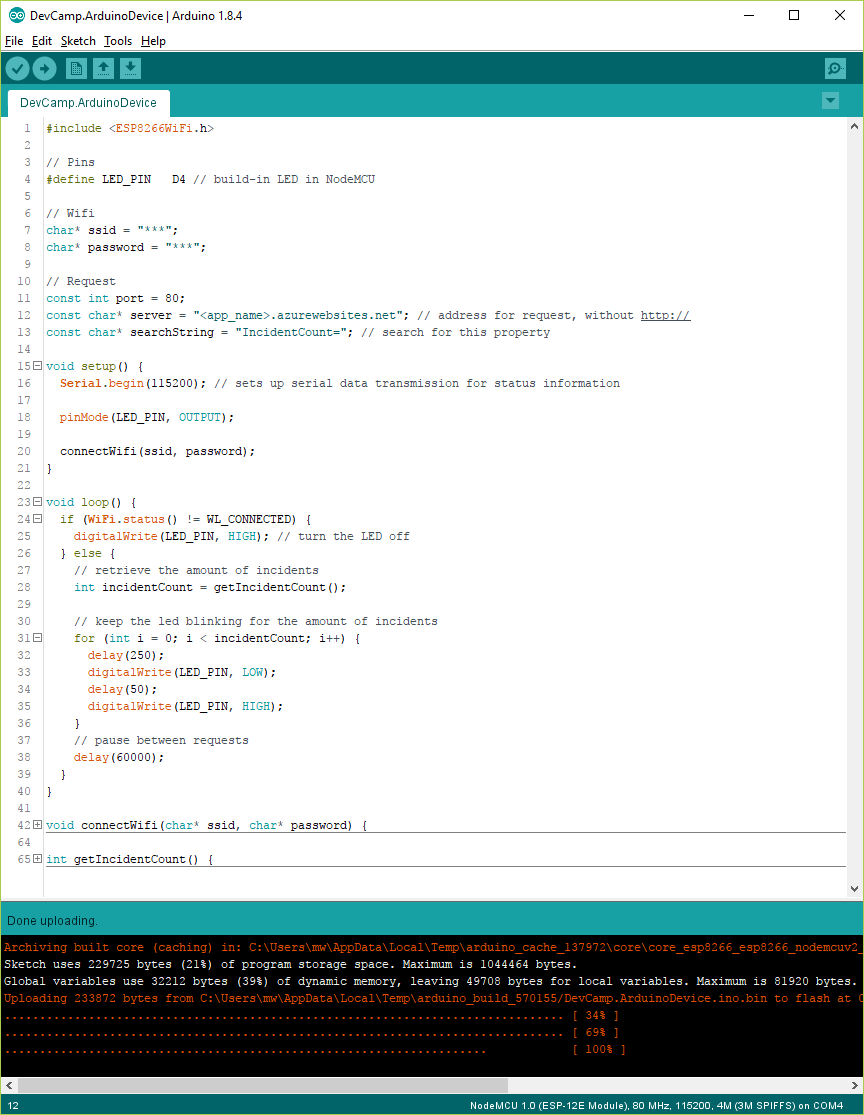
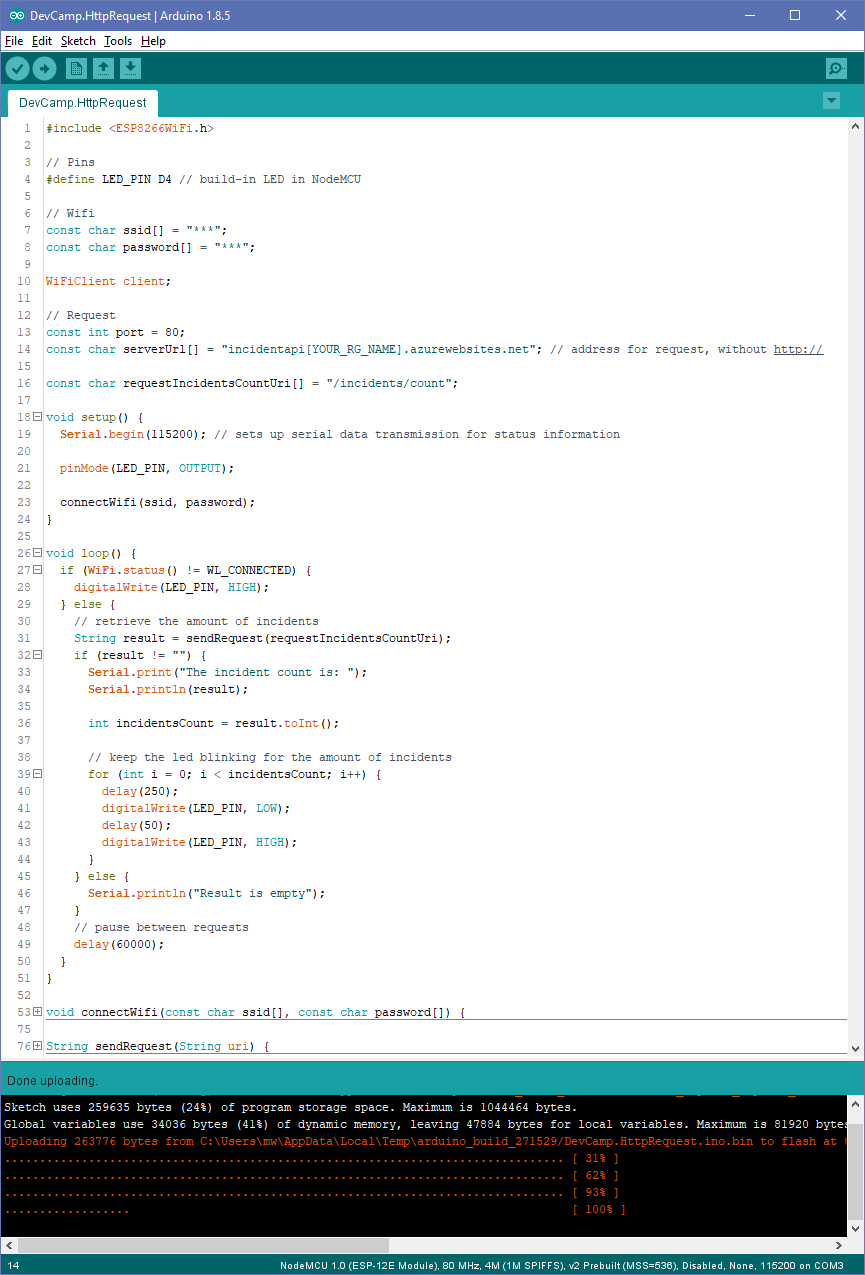
Replaced some pictures and corrected formatting

Changed region(s): [[0.0, 0.0, 1.0, 1.0], [0.9062, 0.2744, 0.9375, 0.3049]]

diff --git a/HOL/dotnet/11-IoT/README.md b/HOL/dotnet/11-IoT/README.md
@@ -89,7 +89,7 @@ You have now installed all the necessary components to start programming an Ardu
 ---
 ## Exercise 2: Program the device<a name="ex2"></a>
 
-The Arduino-compatible device can handle data exchange with web applications. At first we will connect the device to a Wi-Fi, and then we will add an HTTP request to retrieve the amount of incidents from the web application.
+The Arduino-compatible device can handle data exchange with web applications. At first we will connect the device to a Wi-Fi, and then we will add an HTTP request using the incident REST API to retrieve the amount of incidents from the incident web application.
 
 > It is important to develop projects in small chunks and to understand and test each function. Try to develop code with small functions that clearly separate the functionalities of your device and combine them step by step.
 >
